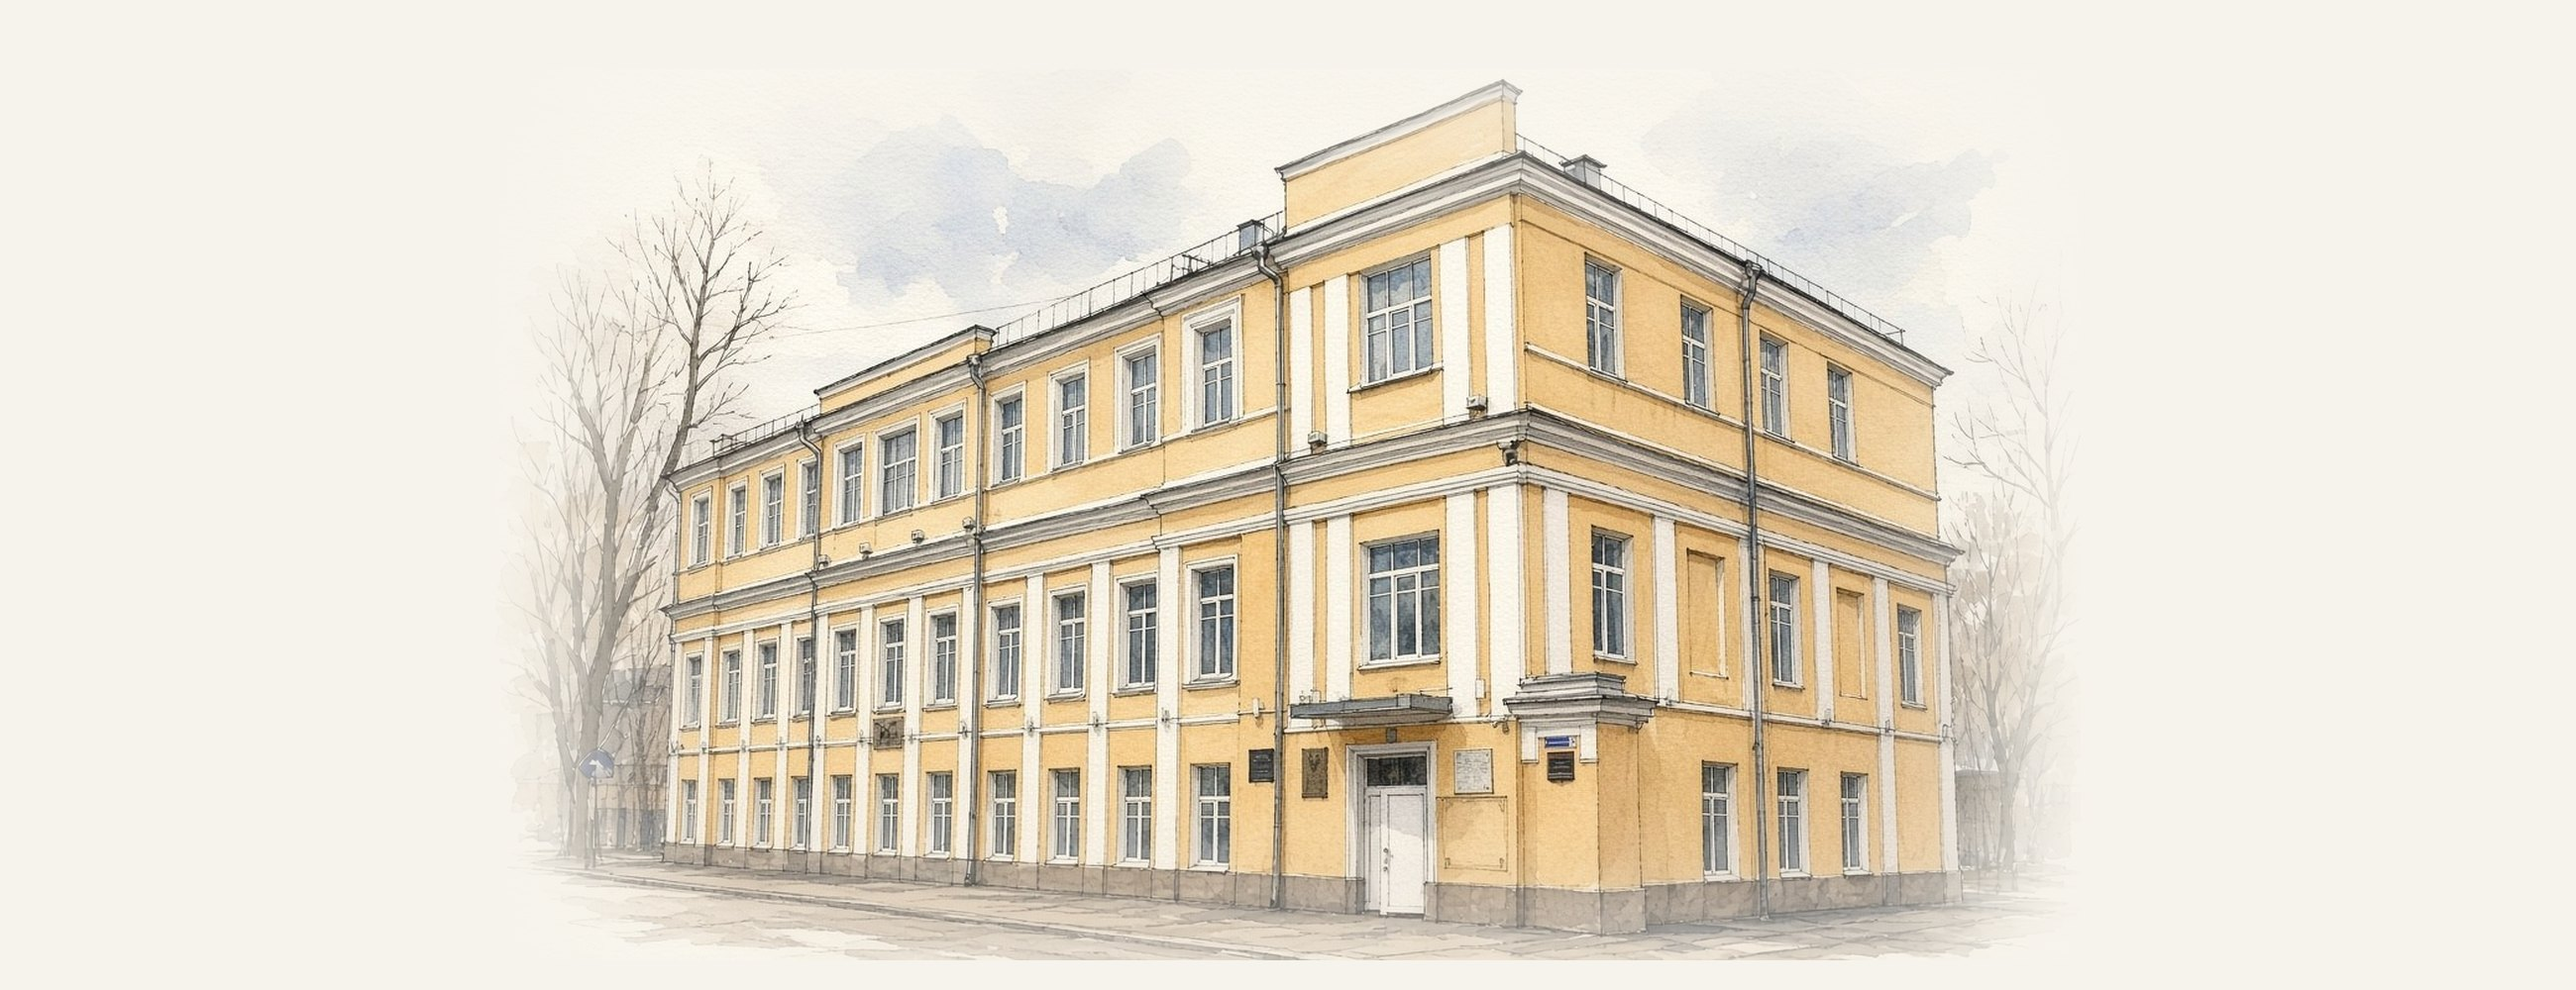
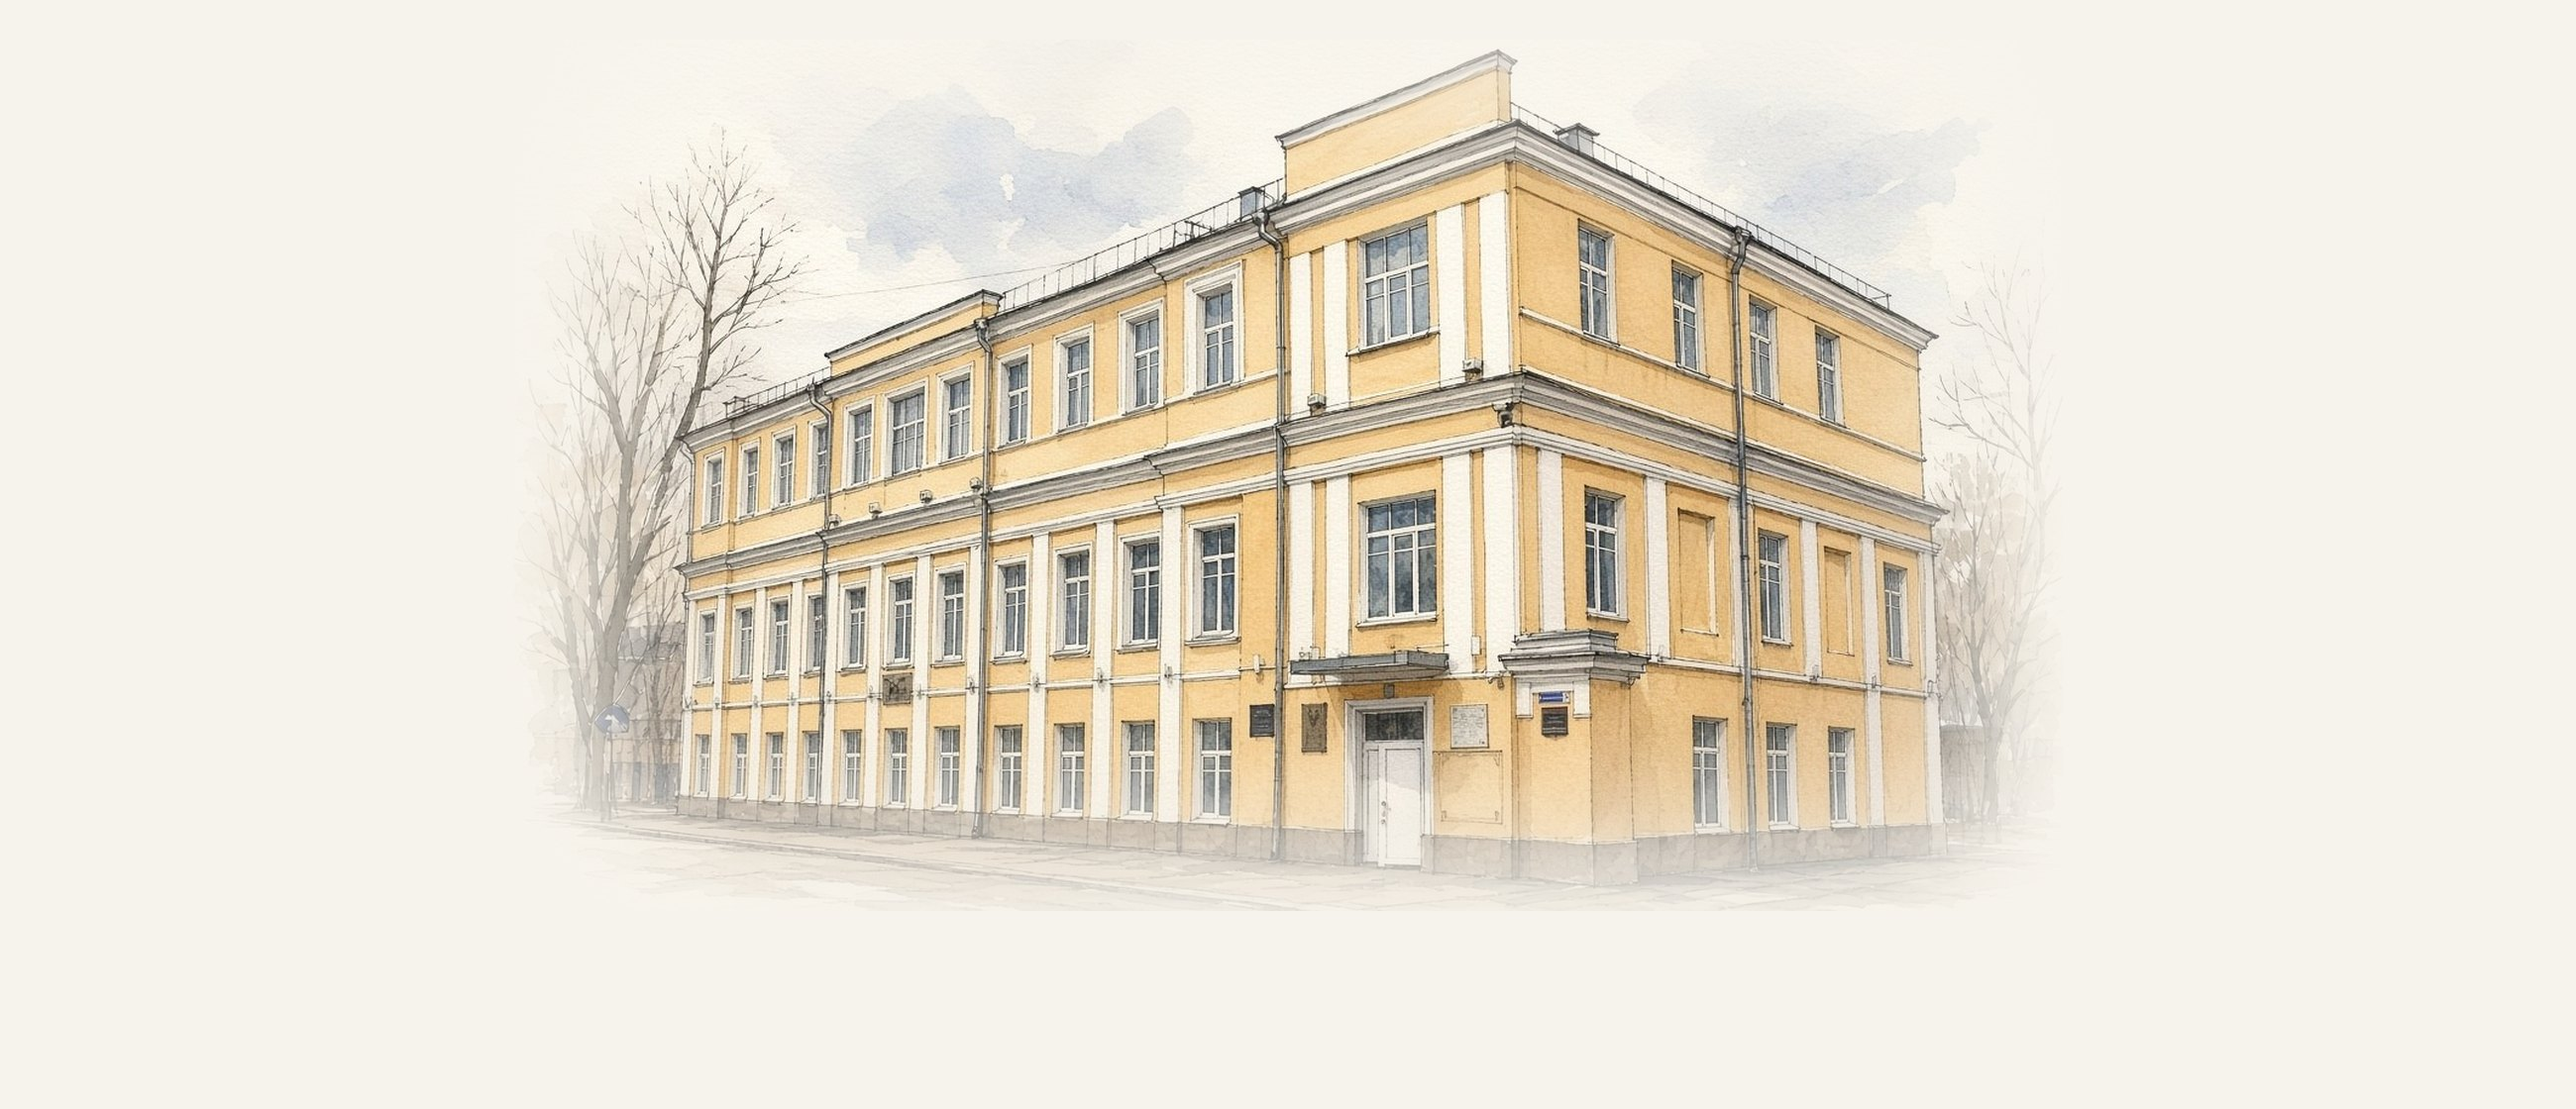
Больше воздуха под акварелью

diff --git a/css/site.css b/css/site.css
@@ -405,3 +405,5 @@ b,strong{font-weight:600}
 /* акварель здания: с воздухом, без обрезки */
 .bld{height:auto;aspect-ratio:2.6/1;border-radius:0;overflow:visible;background:none}
 .bld img{object-fit:contain}
+.bld{aspect-ratio:2600/1120}
+.bld + .facts{margin-top:clamp(56px,calc(40px + 1.2vw),80px)}
